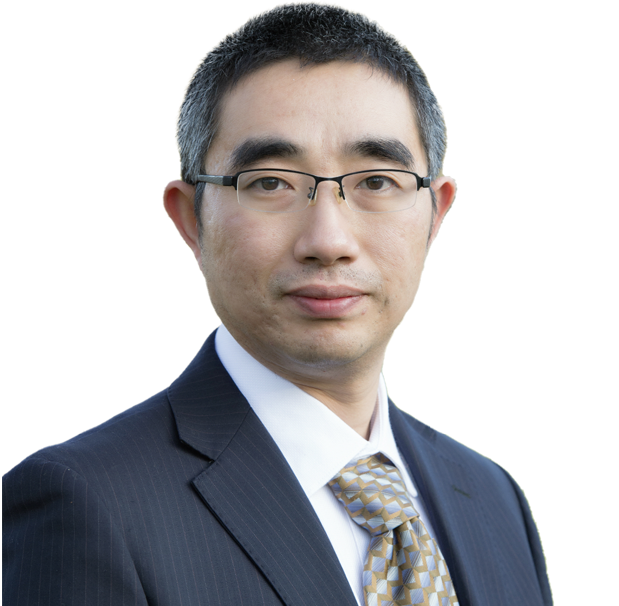
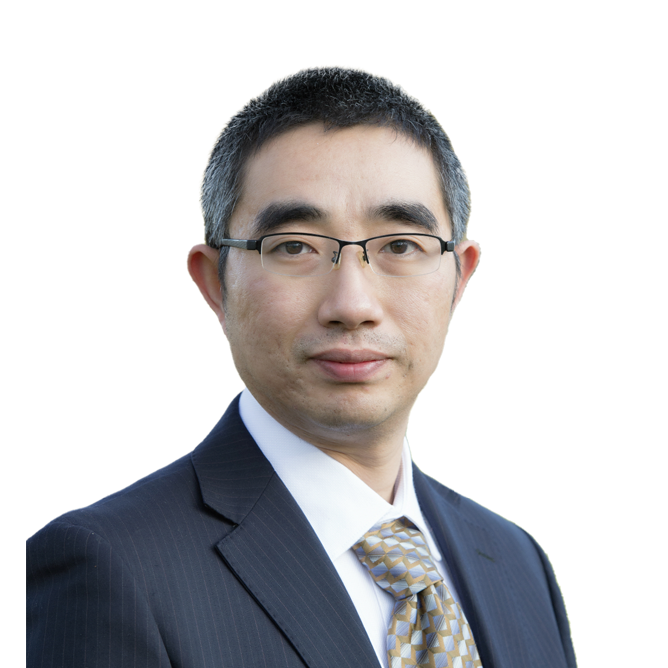
U FIX 3

diff --git a/src/pages/index.tsx b/src/pages/index.tsx
@@ -6,51 +6,40 @@ import OrganizerSection from "../components/homepage/organizer";
 import SectionHeader from "../components/sectionHeader";
 import UniGallery from "../components/homepage/uniGallery";
 import ResearchFields from "../components/homepage/fields";
-
-// Hero background image
-const heroBackground = (
-  <div className="fixed inset-0 -z-10">
-    <StaticImage
-      src="../images/hero-back.png"
-      alt="Hero Background"
-      className="w-full h-full object-cover"
-      quality={90}
-      formats={["auto", "webp", "avif"]}
-      placeholder="blurred"
-      loading="eager"
-    />
-  </div>
-);
-
+import bgImg2 from "../images/bg2.png";
+import bgImg1 from "../images/bg1.png";
 
 const IndexPage: React.FC<PageProps> = () => {
   return (
     <div className="w-full min-h-screen flex flex-col">
-      {/* Hero Section */}
-      <section className="relative w-full h-screen overflow-hidden">
-        
-        {/* Fixed Background Image */}
-        {heroBackground}
 
-        {/* Fixed Dark Overlay */}
-        <div className="fixed w-full h-full bg-black -z-20"></div>
+      {/* Hero Section with bg1 */}
+      <section
+        className="relative w-full h-screen overflow-hidden flex flex-col justify-center items-center text-center px-6 md:px-12 bg-center bg-cover bg-no-repeat"
+        style={{ backgroundImage: `url(${bgImg1})` }}
+      >
+        {/* Optional overlay for readability */}
+        <div className="absolute inset-0 bg-black/40 pointer-events-none"></div>
 
-        {/* Content */}
-        <div className="max-w-5xl mx-auto items-center text-center flex flex-col justify-center h-full relative z-40">
+        {/* Hero Content */}
+        <div className="relative z-10 flex flex-col justify-center items-center w-full h-full">
+          {/* Logo */}
           <div className="mb-10 pt-10">
             <StaticImage
               src="../images/logo2026.png"
-              alt="MERCon 2025 Logo"
+              alt="MERCon 2026 Logo"
               className="w-full max-w-64 md:max-w-[400px] lg:max-w-[600px] h-auto mx-auto"
             />
           </div>
 
+          {/* Description */}
           <h3 className="px-5 text-xl md:text-xl font-normal leading-relaxed max-w-3xl para text-gray-200 mt-4 mb-12">
             Moratuwa Engineering Research Conference 2026 (MERCon 2026) is the 12<sup>th</sup> international conference
             organized by the Engineering Research Unit, University of Moratuwa. MERCon solicits research papers
             describing significant and innovative research contributions in all disciplines of engineering.
           </h3>
 
+          {/* Date & Venue */}
           <div className="flex flex-col md:flex-row gap-6 justify-center items-center mb-12">
             <div className="px-6 py-4 bg-primary-500/10 border border-primary-500 rounded-4xl">
               <div className="flex items-center justify-center para text-xl gap-2 text-white font-semibold">
@@ -67,57 +56,71 @@ const IndexPage: React.FC<PageProps> = () => {
             </div>
           </div>
 
+          {/* Scroll indicator */}
           <a href="#call-for-papers" className="inline-block text-primary-500 text-3xl animate-bounce">
             <i className="fas fa-arrow-down"></i>
           </a>
         </div>
       </section>
 
-      {/* Main Content */}
-      <div className="grow w-full ">
-        {/* Call for Papers Section */}
-        <section id="call-for-papers" className="w-full py-20 px-6 md:px-12">
-          <ResearchFields />
-        </section>
+      {/* Sections with bg2 */}
+      <div className="relative w-full">
+        {/* Background Image */}
+        <div
+          className="absolute inset-0 bg-center bg-cover bg-no-repeat -z-10"
+          style={{ backgroundImage: `url(${bgImg2})` }}
+        ></div>
 
-        {/* Gallery Section */}
-        <Gallery />
+        {/* Optional gradient overlay for blending with dark footer */}
+        <div className="absolute bottom-0 left-0 w-full h-[40vh] bg-gradient-to-t from-dark-900 to-transparent pointer-events-none z-0"></div>
 
-        {/* Organized By Section */}
-        <OrganizerSection />
+        <div className="relative z-10">
+          {/* Call for Papers Section */}
+          <section id="call-for-papers" className="w-full py-20 px-6 md:px-12">
+            <ResearchFields />
+          </section>
 
-        {/* Event Venue Section */}
-        <section id="venue" className="w-full py-16 px-6 md:px-12 bg-dark-900">
-          <div className="container mx-auto">
-            <SectionHeader headerText="Event Venue" />
+          {/* Gallery Section */}
+          <Gallery />
 
-            <h3 className="text-3xl font-bold text-center para text-primary-500 mt-12 mb-8">University Of Moratuwa</h3>
-
-            <h3 className="text-lg para text-center text-gray-300 mb-12">
-              University of Moratuwa, a leading technological university in the region welcomes you to witness a truly
-              unique experience!
-            </h3>
-
-            {/* Map */}
-            <div className="flex w-full justify-center">
-              <div className="max-w-4xl w-full mb-12 rounded-lg overflow-hidden border border-accent-gold/50">
-                <iframe
-                  width="100%"
-                  height="500"
-                  frameBorder="0"
-                  src="https://maps.google.com/maps?q=university of moratuwa&t=&z=15&ie=UTF8&iwloc=&output=embed"
-                ></iframe>
-              </div>
-            </div>
-
-            <UniGallery />
-          </div>
-        </section>
+          {/* Organized By Section */}
+          <OrganizerSection />
+        </div>
       </div>
+
+      {/* Event Venue Section */}
+      <section id="venue" className="w-full py-16 px-6 md:px-12 bg-dark-900">
+        <div className="container mx-auto">
+          <SectionHeader headerText="Event Venue" />
+
+          <h3 className="text-3xl font-bold text-center para text-primary-500 mt-12 mb-8">
+            University Of Moratuwa
+          </h3>
+
+          <h3 className="text-lg para text-center text-gray-300 mb-12">
+            University of Moratuwa, a leading technological university in the region welcomes you to witness a truly
+            unique experience!
+          </h3>
+
+          {/* Map */}
+          <div className="flex w-full justify-center">
+            <div className="max-w-4xl w-full mb-12 rounded-lg overflow-hidden border border-accent-gold/50">
+              <iframe
+                width="100%"
+                height="500"
+                frameBorder="0"
+                src="https://maps.google.com/maps?q=university of moratuwa&t=&z=15&ie=UTF8&iwloc=&output=embed"
+              ></iframe>
+            </div>
+          </div>
+
+          <UniGallery />
+        </div>
+      </section>
     </div>
   );
 };
 
 export default IndexPage;
 
-export const Head: HeadFC = () => <title>MERCon 2025 - Home</title>;
+export const Head: HeadFC = () => <title>MERCon 2026 - Home</title>;

diff --git a/src/components/homepage/organizer.tsx b/src/components/homepage/organizer.tsx
@@ -4,27 +4,23 @@ import SectionHeader from "../sectionHeader";
 
 const OrganizerSection = () => {
   const glassCardClasses = `
-    group
-    relative
-    overflow-hidden
-    rounded-2xl
-    border border-white/20
-    bg-white/40
-    md:bg-white/40
-    backdrop-blur-md
-    p-2
-    h-64
-    md:h-72
-    flex items-center justify-center
-    shadow-xl shadow-black/20
-    transition-all duration-500
-    ease-out
-    hover:scale-[1.02]
-    hover:bg-white/80
-    hover:shadow-2xl
-    hover:shadow-primary-500/20
-    hover:border-white/30
-  `;
+  group
+  relative
+  overflow-hidden
+  rounded-2xl
+  border border-white/20
+  bg-white/20
+  backdrop-blur-xl
+  p-2
+  h-64
+  md:h-72
+  flex items-center justify-center
+  shadow-xl shadow-black/20
+  transition-all duration-500 ease-out
+  hover:bg-white/30
+  hover:border-white/40
+`;
+
 
   const imageProps: { className: string; objectFit: "contain"; placeholder?: "blurred" } = {
     className:
@@ -57,7 +53,12 @@ const OrganizerSection = () => {
   return (
     <section className="w-full py-24 px-6 bg-transparent md:px-12 relative overflow-hidden">
     {/* Bottom Gradient Overlay */}
-    <div className="absolute bottom-0 left-0 w-full h-[40vh] bg-gradient-to-t from-black/90 to-transparent pointer-events-none z-0"></div>
+    <div
+  className="absolute bottom-0 left-0 w-full h-[40vh] pointer-events-none -z-20"
+  style={{ background: "linear-gradient(to top, rgb(25,25,25), transparent)" }}
+></div>
+
+
 
       {/* Colorful blurred blobs in background */}
       {/* <div className="absolute top-0 left-1/4 w-96 h-96 bg-primary-500/30 rounded-full mix-blend-overlay filter blur-3xl opacity-30 animate-pulse-slow"></div>

diff --git a/src/pages/organizing-committee.tsx b/src/pages/organizing-committee.tsx
@@ -168,7 +168,7 @@ const speakerLevels: SpeakerLevel[] = [
         name: "Dr. Aruna Bandara",
         image: (
           <StaticImage
-            src="../images/committee/Dr.Aruna.Bandara.png"
+            src="../images\committee\Dr.Aruna.Bandara.png"
             alt="Dr. Aruna Bandara"
             className="w-full h-full"
             objectFit="cover"
@@ -340,10 +340,23 @@ const speakerLevels: SpeakerLevel[] = [
 // --- Main Section Component ---
 const OrganizingCommittee = () => {
   return (
-    <section className="w-full py-24 px-4 md:px-8 mt-10 bg-white">
+    <section className="w-full py-24 px-4 md:px-8 mt-16">
+      <div
+        className="fixed inset-0 -z-20"
+        style={{
+          background: `
+          radial-gradient(
+            circle at center,
+            rgb(14, 46, 32) 0%,
+            rgb(8, 26, 18) 45%,
+            rgb(2, 6, 4) 80%
+          )
+          `,
+        }}
+      />
       <div className="max-w-7xl mx-auto">
         {/* Main Page Title */}
-        <SectionHeader headerText="Organizing Committee" textClass="text-black" />
+        <SectionHeader headerText="Organizing Committee" textClass="text-white" />
 
         <SpeakerRankGraph speakerLevels={speakerLevels} />
       </div>

diff --git a/src/pages/technical-programming-committee.tsx b/src/pages/technical-programming-committee.tsx
@@ -1085,15 +1085,28 @@ const ieeeSriLankaChapterMembers: SpeakerLevel[] = [
 // --- Main Section Component ---
 const TechnicalProgrammingCommittee = () => {
   return (
-    <section className="w-full py-24 px-4 md:px-8 mt-10 bg-white">
+    <section className="w-full py-24 px-4 md:px-8 mt-16">
+      <div
+        className="fixed inset-0 -z-20"
+        style={{
+          background: `
+          radial-gradient(
+            circle at center,
+            rgb(14, 46, 32) 0%,
+            rgb(8, 26, 18) 45%,
+            rgb(2, 6, 4) 80%
+          )
+          `,
+        }}
+      />
       <div className="max-w-7xl mx-auto">
         {/* Main Page Title */}
-        <SectionHeader headerText="Technical Programming Committee" textClass="text-black" />
+        <SectionHeader headerText="Technical Programming Committee" textClass="text-white" />
 
         <SpeakerRankGraph speakerLevels={conferenceChairLevels} />
 
         <div className="my-20"></div>
-        <SectionHeader headerText="Track Co-Chairs" textClass="text-black" />
+        <SectionHeader headerText="Track Co-Chairs" textClass="text-white" />
 
         <SpeakerRankGraph speakerLevels={trackCoChairLevels} />
 

diff --git a/src/components/speakerRankGraph.tsx b/src/components/speakerRankGraph.tsx
@@ -19,13 +19,13 @@ const SpeakerRankGraph: React.FC<{ speakerLevels: SpeakerLevel[] }> = ({ speaker
               level.levelName.map((name, idx) => (
                 <h2
                   key={idx}
-                  className="text-2xl md:text-3xl font-bold text-gray-800 uppercase tracking-widest text-center"
+                  className="text-2xl md:text-3xl font-bold text-white uppercase topic tracking-widest text-center"
                 >
                   {name}
                 </h2>
               ))
             ) : (
-              <h2 className="text-2xl md:text-3xl font-bold text-gray-800 uppercase tracking-widest text-center">
+              <h2 className="text-2xl md:text-3xl font-bold topic text-white uppercase tracking-widest text-center">
                 {level.levelName}
               </h2>
             )}

diff --git a/src/components/homepage/fields.tsx b/src/components/homepage/fields.tsx
@@ -147,6 +147,10 @@ const trackImages = {
 
 const ResearchFields: React.FC = () => (
   <div className="max-w-5xl mx-auto z-4">
+    <div
+  className="absolute top-0 left-0 w-full h-[40vh] pointer-events-none z-0"
+  style={{ background: "linear-gradient(to bottom, rgb(25,25,25), transparent)" }}
+></div>
     <h3 className="text-base para md:text-xl text-xl text-white text-center mb-12">
       MERCon 2025 solicits research papers describing significant & innovative research contributions to following areas
       of engineering. We will invite submissions on a wide range of research topics.
